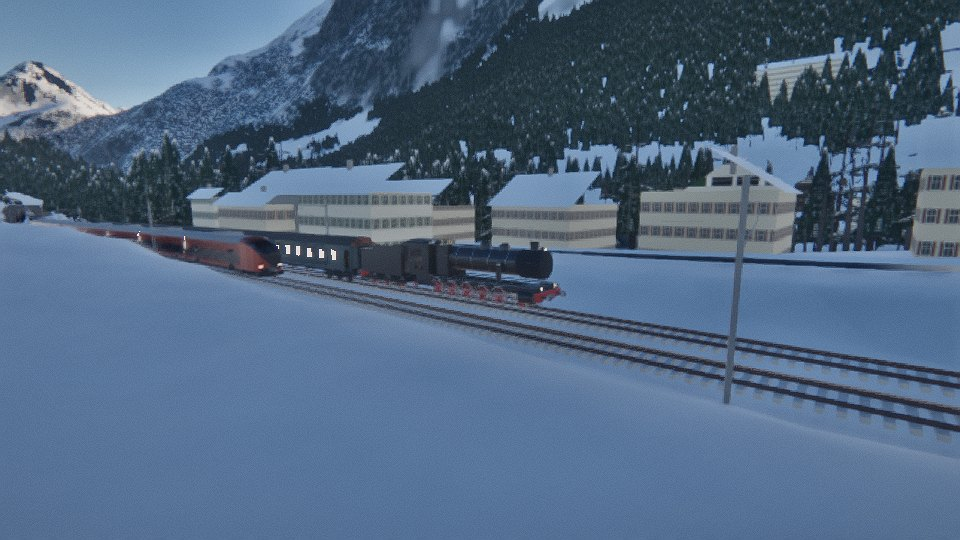
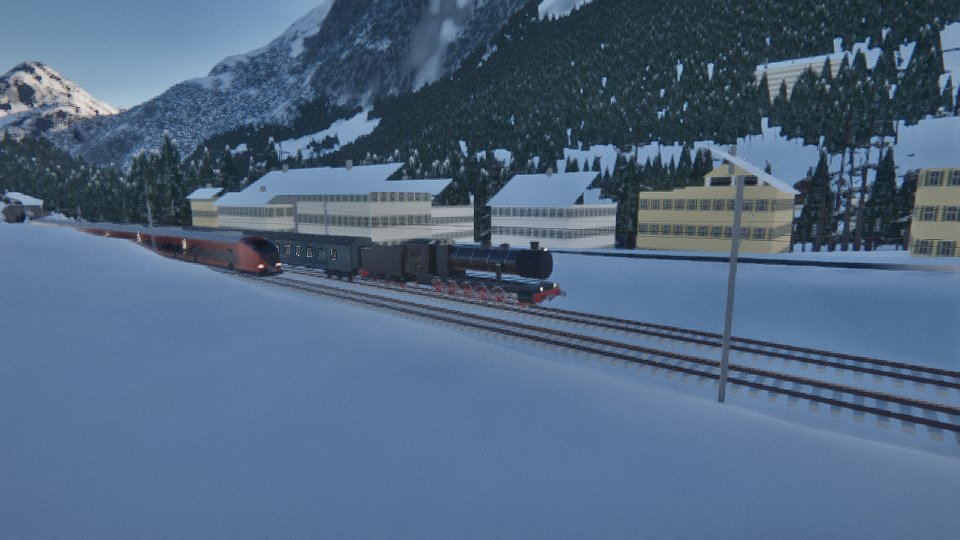
README: screenshots from the current build
The photo stop, the footplate, the Treno Gottardo passing and the plume,
rendered again after the fixes to faces, skin, clothes, windows, roof
ends and the villages.

Claude-Session: https://claude.ai/code/session_01FFqVH9GqBfDKsWLnxyvkQe

diff --git a/games/gotthard-pullman/README.md b/games/gotthard-pullman/README.md
@@ -13,7 +13,7 @@ imported read-only). Its people are the 1403 game's figures, dressed for 2026.
 
 | The photo stop at Wassen | On the footplate: the driver at the injector valve |
 | --- | --- |
-| ![Passengers photographing the C 5/6 at Wassen](docs/photo-stop.jpg) | ![The driver's hand on the controls](docs/footplate.jpg) |
+| ![Passengers out in the snow round the C 5/6 at Wassen](docs/photo-stop.jpg) | ![The driver's hand on the controls](docs/footplate.jpg) |
 | **Overtaken at Gurtnellen by the Treno Gottardo** | **The exhaust in the frosty air** |
 | ![The Traverso passing the special](docs/overtaken.jpg) | ![The steam plume over the train](docs/steam.jpg) |
 
